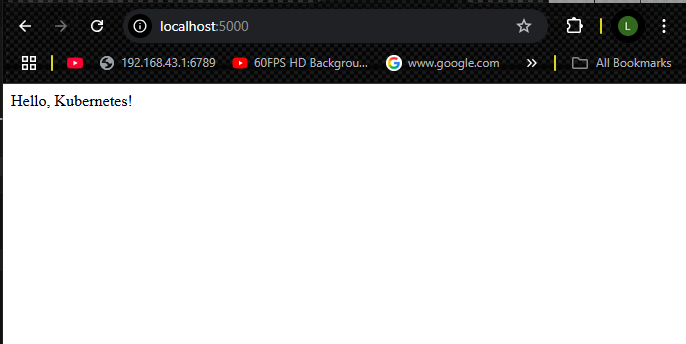
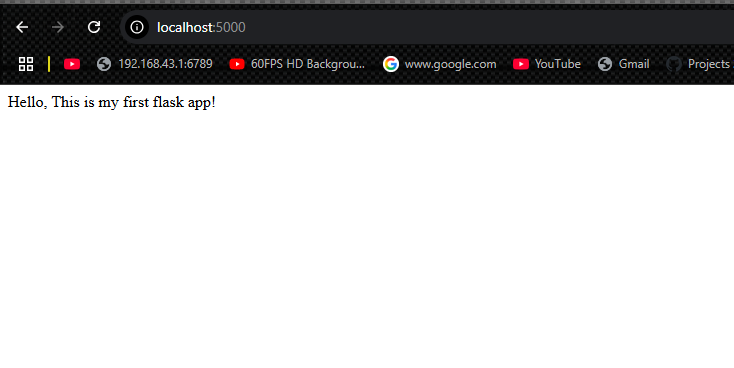
Editing image 1

Changed region(s): [[0.0, 0.1453, 1.0, 1.0], [0.0, 0.0, 1.0, 0.1163]]

diff --git a/app.py b/app.py
@@ -3,7 +3,7 @@ app = Flask(__name__)
 
 @app.route("/")
 def home():
-    return "Hello, Kubernetes!"
+    return "Hello, This is my first flask app!"
 
 if __name__ == "__main__":
     app.run(host="0.0.0.0", port=5000)
